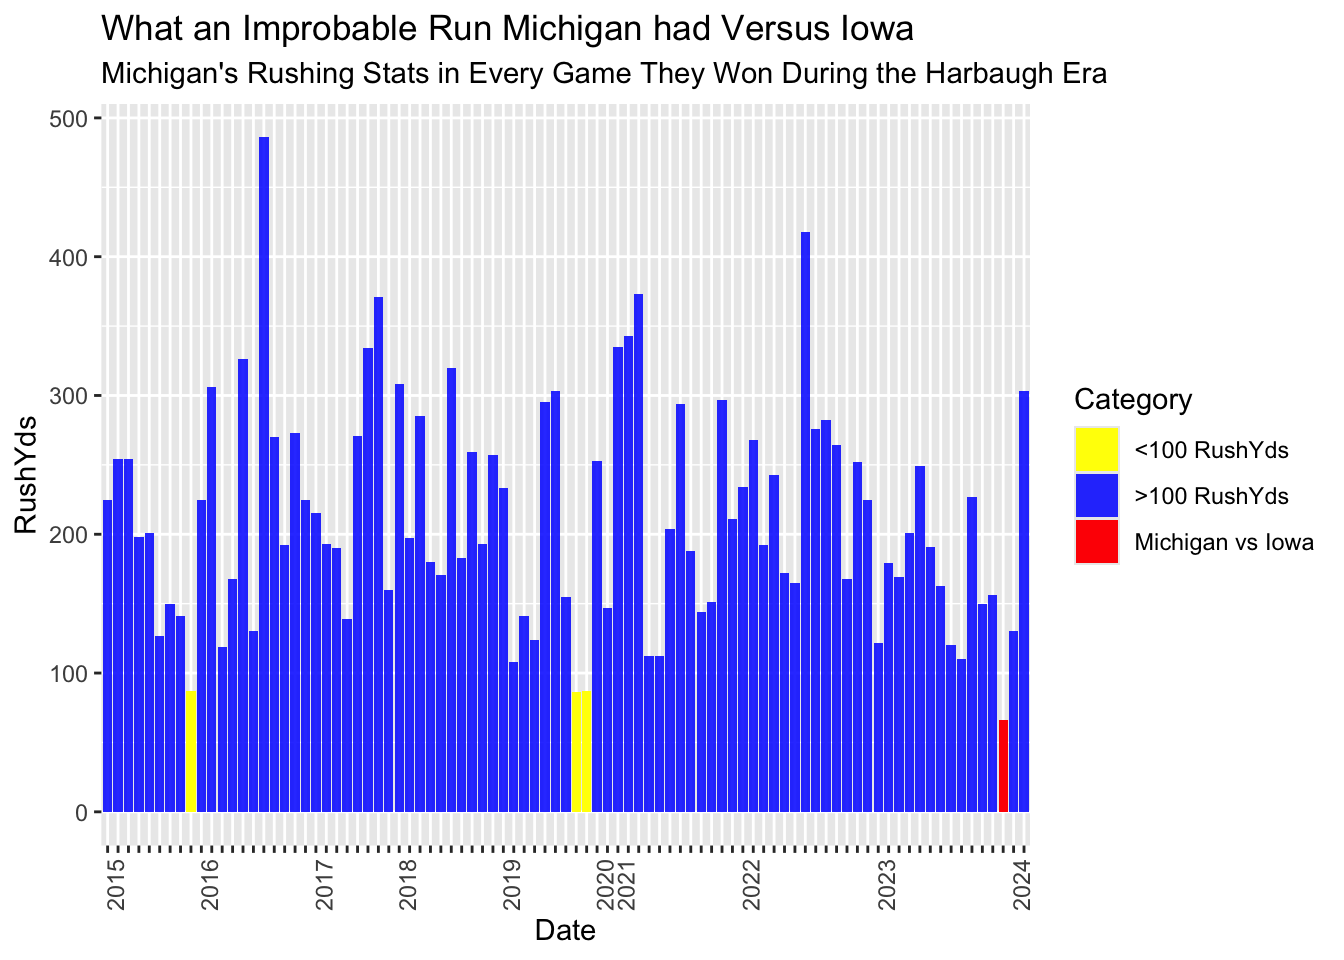
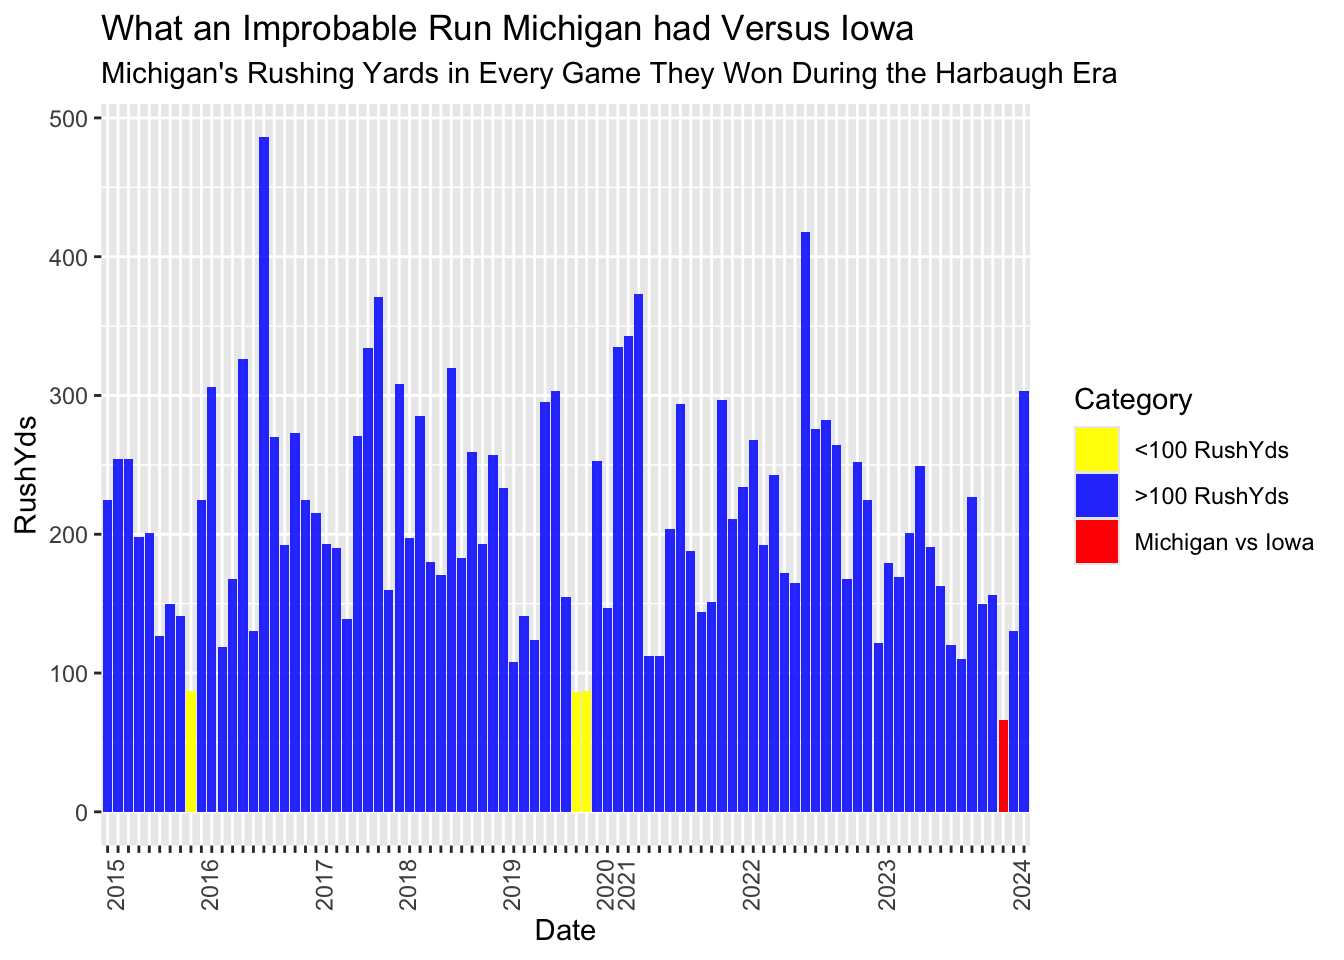
made edits to blog post

Changed region(s): [[0.25, 0.0625, 0.8438, 0.0938]]

diff --git a/docs/posts/bad-rushing-wins/index.html b/docs/posts/bad-rushing-wins/index.html
@@ -308,7 +308,7 @@ Attaching package: 'zoo'</code></pre>
 <span id="cb12-23"><a href="#cb12-23" aria-hidden="true" tabindex="-1"></a>  <span class="fu">scale_x_discrete</span>(<span class="at">labels =</span> <span class="cf">function</span>(x) <span class="fu">ifelse</span>(<span class="fu">duplicated</span>(michigan_wins<span class="sc">$</span>Season), <span class="st">""</span>, michigan_wins<span class="sc">$</span>Season)) <span class="sc">+</span>  <span class="co"># Custom x-axis labels by season</span></span>
 <span id="cb12-24"><a href="#cb12-24" aria-hidden="true" tabindex="-1"></a>  <span class="fu">theme</span>(<span class="at">axis.text.x =</span> <span class="fu">element_text</span>(<span class="at">angle =</span> <span class="dv">90</span>, <span class="at">hjust =</span> <span class="dv">1</span>)) <span class="sc">+</span></span>
 <span id="cb12-25"><a href="#cb12-25" aria-hidden="true" tabindex="-1"></a>  <span class="fu">labs</span>(<span class="at">fill =</span> <span class="st">"Category"</span>) <span class="sc">+</span> <span class="co"># Labels for the legend </span></span>
-<span id="cb12-26"><a href="#cb12-26" aria-hidden="true" tabindex="-1"></a><span class="fu">labs</span>(<span class="at">title=</span><span class="st">"What an Improbable Run Michigan had Versus Iowa"</span>, <span class="at">subtitle =</span> <span class="st">"Michigan's Rushing Stats in Every Game They Won During the Harbaugh Era"</span>)</span></code><button title="Copy to Clipboard" class="code-copy-button"><i class="bi"></i></button></pre></div>
+<span id="cb12-26"><a href="#cb12-26" aria-hidden="true" tabindex="-1"></a><span class="fu">labs</span>(<span class="at">title=</span><span class="st">"What an Improbable Run Michigan had Versus Iowa"</span>, <span class="at">subtitle =</span> <span class="st">"Michigan's Rushing Yards in Every Game They Won During the Harbaugh Era"</span>)</span></code><button title="Copy to Clipboard" class="code-copy-button"><i class="bi"></i></button></pre></div>
 </details>
 <div class="cell-output-display">
 <div>
@@ -318,8 +318,8 @@ Attaching package: 'zoo'</code></pre>
 </div>
 </div>
 </div>
-<p>As we see, Michigan hardly ever wins when they run for over 100 yards. Prior to this game during the Harbaugh era (2015-2023), it only happened three times. Iowa clearly had the right scheme in mind, but it seems like they just had an unlucky day.</p>
-<p>When we look deeper into the game, Iowa actually allowed two rushing touchdowns to Michigan’s star HB Blake Corum. A team doesn’t score 26 points by accident, especially to one of the best defenses in the country. Iowa’s halt of Michigan’s rushing yards is clearly not congruent with giving up as many points as they did. A reason for this? Not their defense. Iowa’s offense turned the ball over three times - all of them fumbles. These set up short and easy drives for Michigan to essentially walk into the endzone. On Michigan’s two touchdown-scoring drives, they ran a combined 3 plays for 11 yards. Yes, you read that right. They started with the ball inside the Iowa 10 yard line twice after recovering fumbles (source https://www.espn.com/college-football/playbyplay/_/gameId/401539480). This helps explain Michigan’s “poor” offensive performance. In fact, they were pretty efficient in scoring while they had the time to. So, defense may win championships, but even a decent looking defense might come from better-than-mediocre offense. The statement only holds under certain conditions. Sorry Iowa.</p>
+<p>As we see, Michigan has very few wins when they run for less than 100 yards. Prior to this game during the Harbaugh era (2015-2023), it only happened three times. Iowa clearly had the right scheme in mind, but it seems like they just had an unlucky day.</p>
+<p>When we look deeper into the game, Iowa actually allowed two rushing touchdowns to Michigan’s star HB Blake Corum. A team doesn’t score 26 points by accident, especially to one of the best defenses in the country. Iowa’s halt of Michigan’s rushing yards is clearly not congruent with giving up as many points as they did. A reason for this? Not their defense. Iowa’s offense turned the ball over three times - all of them fumbles. These set up short and easy drives for Michigan to essentially walk into the endzone. On Michigan’s two touchdown-scoring drives, they ran a combined 3 plays for 11 yards. Yes, you read that right. They started with the ball inside the Iowa 10 yard line twice after recovering fumbles (source: <a href="https://www.espn.com/college-football/playbyplay/_/gameId/401539480">ESPN</a>). This helps explain Michigan’s “poor” offensive performance. In fact, they were pretty efficient in scoring while they had the time to. So, defense may win championships, but even a decent looking defense might come from better-than-mediocre offense. The statement only holds under certain conditions. Sorry Iowa.</p>
 
 
 

diff --git a/docs/index.html b/docs/index.html
@@ -206,7 +206,7 @@ window.Quarto = {
 
 <div class="quarto-listing quarto-listing-container-default" id="listing-listing">
 <div class="list quarto-listing-default">
-<div class="quarto-post image-right" data-index="0" data-categories="football,Iowa,Michigan" data-listing-date-sort="1729569600000" data-listing-file-modified-sort="1729640357192" data-listing-date-modified-sort="NaN" data-listing-reading-time-sort="4" data-listing-word-count-sort="652">
+<div class="quarto-post image-right" data-index="0" data-categories="football,Iowa,Michigan" data-listing-date-sort="1729569600000" data-listing-file-modified-sort="1729654777348" data-listing-date-modified-sort="NaN" data-listing-reading-time-sort="4" data-listing-word-count-sort="654">
 <div class="thumbnail">
 <p><a href="./posts/bad-rushing-wins/index.html" class="no-external"></a></p><a href="./posts/bad-rushing-wins/index.html" class="no-external">
 <p class="card-img-top"><img src="posts/bad-rushing-wins/index_files/figure-html/unnamed-chunk-5-1.png"  class="thumbnail-image card-img"/></p>
@@ -423,7 +423,7 @@ Harlow Malloc
 </a>
 </div>
 </div>
-<div class="quarto-post image-right" data-index="6" data-categories="news" data-listing-date-sort="1727496000000" data-listing-file-modified-sort="1727804526414" data-listing-date-modified-sort="NaN" data-listing-reading-time-sort="1" data-listing-word-count-sort="32">
+<div class="quarto-post image-right" data-index="6" data-categories="news" data-listing-date-sort="1727496000000" data-listing-file-modified-sort="1729654897123" data-listing-date-modified-sort="NaN" data-listing-reading-time-sort="1" data-listing-word-count-sort="42">
 <div class="thumbnail">
 <p><a href="./posts/welcome/index.html" class="no-external"></a></p><a href="./posts/welcome/index.html" class="no-external">
 <p class="card-img-top"><img src="posts/welcome/thumbnail.jpg"  class="thumbnail-image card-img"/></p>
@@ -451,7 +451,7 @@ news
 Sep 28, 2024
 </div>
 <div class="listing-author">
-Tristan O’Malley
+Sam Benning
 </div>
 </a>
 </div>

diff --git a/docs/posts/welcome/index.html b/docs/posts/welcome/index.html
@@ -6,7 +6,7 @@
 
 <meta name="viewport" content="width=device-width, initial-scale=1.0, user-scalable=yes">
 
-<meta name="author" content="Tristan O’Malley">
+<meta name="author" content="Sam Benning">
 <meta name="dcterms.date" content="2024-09-28">
 
 <title>Welcome To My Blog – Sports Data Analysis Blog</title>
@@ -128,7 +128,7 @@ ul.task-list li input[type="checkbox"] {
       <div>
       <div class="quarto-title-meta-heading">Author</div>
       <div class="quarto-title-meta-contents">
-               <p>Tristan O’Malley </p>
+               <p>Sam Benning </p>
             </div>
     </div>
       
@@ -155,6 +155,7 @@ ul.task-list li input[type="checkbox"] {
 
 
 <p>This is the first post in a Quarto blog. Welcome!</p>
+<p>Below is a test image just to make sure this works.</p>
 <p><img src="thumbnail.jpg" class="img-fluid"></p>
 <p>Since this post doesn’t specify an explicit <code>image</code>, the first image in the post will be used in the listing page of posts.</p>
 
